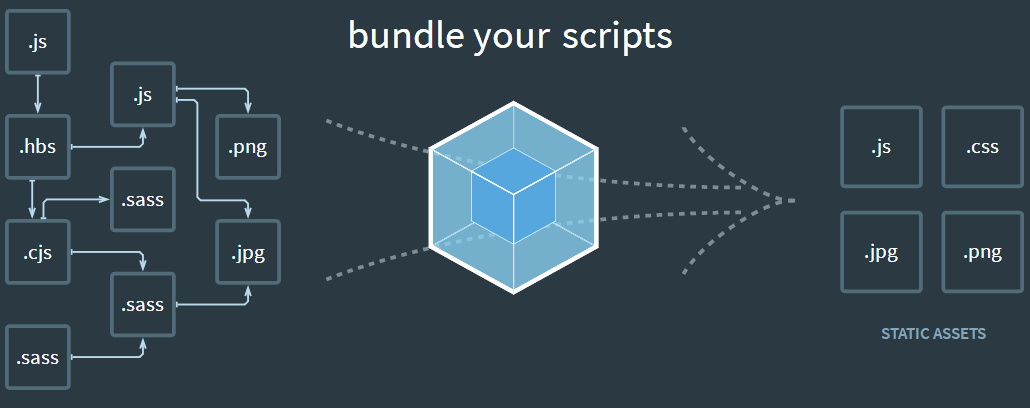
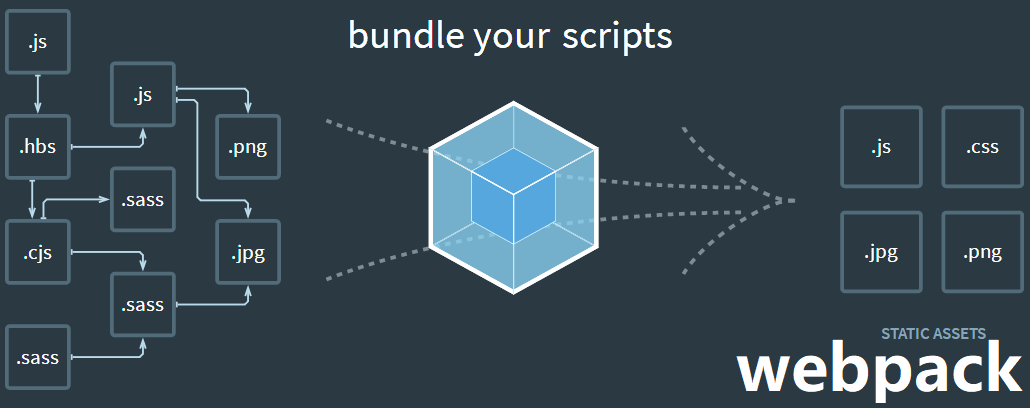
update #thumb img

Changed region(s): [[0.7146, 0.8235, 0.9942, 1.0]]

diff --git a/eminoda.github.io/source/_drafts/nginx-high-availability.md b/eminoda.github.io/source/_drafts/nginx-high-availability.md
@@ -4,7 +4,7 @@ tags: nginx
 categories:
   - 前端
   - nginx
-no_sketch: true
+thumb_img: keepalived.png
 ---
 
 # [什么是高可用](https://zh.wikipedia.org/zh-hans/%E9%AB%98%E5%8F%AF%E7%94%A8%E6%80%A7)

diff --git a/eminoda.github.io/source/_posts/2018-10-29-webpack-require-font.md b/eminoda.github.io/source/_posts/2018-10-29-webpack-require-font.md
@@ -4,7 +4,7 @@ tags: webpack
 categories:
   - 前端
   - webpack
-no_sketch: true
+thumb_img: webpack.png
 date: 2018-10-29 17:27:44
 ---
 

diff --git a/eminoda.github.io/source/_posts/2018-10-19-nginx-product-practice.md b/eminoda.github.io/source/_posts/2018-10-19-nginx-product-practice.md
@@ -4,7 +4,7 @@ tags: nginx
 categories:
   - 前端
   - nginx
-no_sketch: true
+thumb_img: nginx.jpg
 date: 2018-10-19 15:28:50
 ---
 

diff --git a/eminoda.github.io/source/_posts/2018-10-29-nginx-ddos.md b/eminoda.github.io/source/_posts/2018-10-29-nginx-ddos.md
@@ -4,7 +4,7 @@ tags: nginx
 categories:
   - 前端
   - nginx
-no_sketch: true
+thumb_img: nginx.jpg
 date: 2018-10-29 17:27:30
 ---
 

diff --git a/eminoda.github.io/source/_posts/2018-11-08-pressure-test-node-java.md b/eminoda.github.io/source/_posts/2018-11-08-pressure-test-node-java.md
@@ -7,6 +7,7 @@ categories:
   - 前端
   - test
 date: 2018-11-08 17:33:36
+thumb_img: node.png
 ---
 
 
